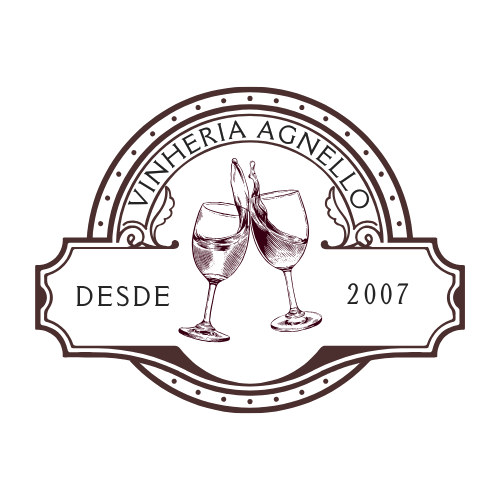
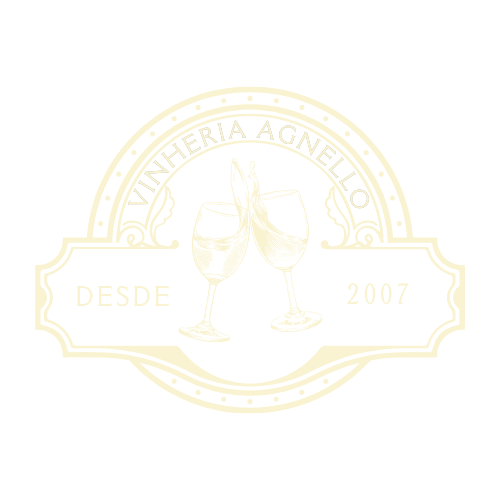
Correção de header e adição a todas páginas

Changed region(s): [[0.06, 0.15, 0.93, 0.84], [0.15, 0.57, 0.33, 0.63], [0.69, 0.57, 0.81, 0.63]]

diff --git a/src/pages/contato.html b/src/pages/contato.html
@@ -1,0 +1,28 @@
+<!DOCTYPE html>
+<html lang="pt-br">
+<head>
+    <meta charset="UTF-8">
+    <meta name="viewport" content="width=device-width, initial-scale=1.0">
+    <meta name="keywords" content="vinicola, vinhos, galeria de fotos, uvas, vinhedos, produção de vinho, ">
+    <meta name="description" content="Explore nossa galeria com imagens incríveis da vinheria.">
+    <title>Galeria - Vinheria Agnello</title>
+    <link rel="stylesheet" href="../css/style.css">
+</head>
+<body>
+    <header>
+        <ul>
+            <a href="historia.html">Nossa história</a>
+            <a href="galeria.html">Galeria</a>
+            <a href="../../index.html"><img  id="logo" src="../assets/img/Vinheria Agnello.png" alt="Logo"></a>
+            <a href="produtos.html">Produtos</a>
+            <a href="contato.html">Contato</a>
+        </ul>
+    </header>
+    <main>
+
+    </main>
+    <footer>
+        <p>&copy; 2025 Vinheria Agnello. Todos os direitos reservados.</p>
+    </footer>
+</body>
+</html>

diff --git a/src/pages/historia.html b/src/pages/historia.html
@@ -1,0 +1,28 @@
+<!DOCTYPE html>
+<html lang="pt-br">
+<head>
+    <meta charset="UTF-8">
+    <meta name="viewport" content="width=device-width, initial-scale=1.0">
+    <meta name="keywords" content="vinicola, vinhos, galeria de fotos, uvas, vinhedos, produção de vinho, ">
+    <meta name="description" content="Explore nossa galeria com imagens incríveis da vinheria.">
+    <title>Galeria - Vinheria Agnello</title>
+    <link rel="stylesheet" href="../css/style.css">
+</head>
+<body>
+    <header>
+        <ul>
+            <a href="historia.html">Nossa história</a>
+            <a href="galeria.html">Galeria</a>
+            <a href="../../index.html"><img  id="logo" src="../assets/img/Vinheria Agnello.png" alt="Logo"></a>
+            <a href="produtos.html">Produtos</a>
+            <a href="contato.html">Contato</a>
+        </ul>
+    </header>
+    <main>
+
+    </main>
+    <footer>
+        <p>&copy; 2025 Vinheria Agnello. Todos os direitos reservados.</p>
+    </footer>
+</body>
+</html>

diff --git a/src/pages/produtos.html b/src/pages/produtos.html
@@ -1,0 +1,28 @@
+<!DOCTYPE html>
+<html lang="pt-br">
+<head>
+    <meta charset="UTF-8">
+    <meta name="viewport" content="width=device-width, initial-scale=1.0">
+    <meta name="keywords" content="vinicola, vinhos, galeria de fotos, uvas, vinhedos, produção de vinho, ">
+    <meta name="description" content="Explore nossa galeria com imagens incríveis da vinheria.">
+    <title>Galeria - Vinheria Agnello</title>
+    <link rel="stylesheet" href="../css/style.css">
+</head>
+<body>
+    <header>
+        <ul>
+            <a href="historia.html">Nossa história</a>
+            <a href="galeria.html">Galeria</a>
+            <a href="../../index.html"><img  id="logo" src="../assets/img/Vinheria Agnello.png" alt="Logo"></a>
+            <a href="produtos.html">Produtos</a>
+            <a href="contato.html">Contato</a>
+        </ul>
+    </header>
+    <main>
+
+    </main>
+    <footer>
+        <p>&copy; 2025 Vinheria Agnello. Todos os direitos reservados.</p>
+    </footer>
+</body>
+</html>

diff --git a/src/pages/galeria.html b/src/pages/galeria.html
@@ -6,18 +6,17 @@
     <meta name="keywords" content="vinicola, vinhos, galeria de fotos, uvas, vinhedos, produção de vinho, ">
     <meta name="description" content="Explore nossa galeria com imagens incríveis da vinheria.">
     <title>Galeria - Vinheria Agnello</title>
-    <link rel="stylesheet" href="../css/galeria.css">
+    <link rel="stylesheet" href="../css/style.css">
 </head>
 <body>
     <header>
-        <h1>Vinheria Agnello</h1>
-        <section class="home">
-            <a href="../../index.html">Home</a>
+        <ul>
             <a href="historia.html">Nossa história</a>
             <a href="galeria.html">Galeria</a>
+            <a href="../../index.html"><img  id="logo" src="../assets/img/Vinheria Agnello.png" alt="Logo"></a>
             <a href="produtos.html">Produtos</a>
             <a href="contato.html">Contato</a>
-        </section>
+        </ul>
     </header>
     <main>
         <!--intro-->

diff --git a/src/css/style.css b/src/css/style.css
@@ -1,0 +1,25 @@
+@import url(../css/contato.css);
+@import url(../css/galeria.css);
+@import url(../css/historia.css);
+@import url(../css/produtos.css);
+@import url(../css/index.css);
+
+/* Estilização do header e footer*/
+
+header ul, footer {
+    background-color: #4b2e2e;
+    padding: 2rem;
+    color: #f9f3d1;
+    display: flex;
+    justify-content: center;
+    align-items: center;
+    font-size: 20px;
+}
+
+ul a {
+    padding: 0px 26px;
+}
+
+#logo {
+    max-width: 300px;
+}

diff --git a/src/css/galeria.css b/src/css/galeria.css
@@ -7,12 +7,6 @@ body {
     background-color:  #f9f3d1;
 }
 
-header, footer {
-    background-color: #4b2e2e;
-    padding: 2rem;
-    color: #f9f3d1;
-}
-
 .home {
     display: flex;
     text-align: left;
